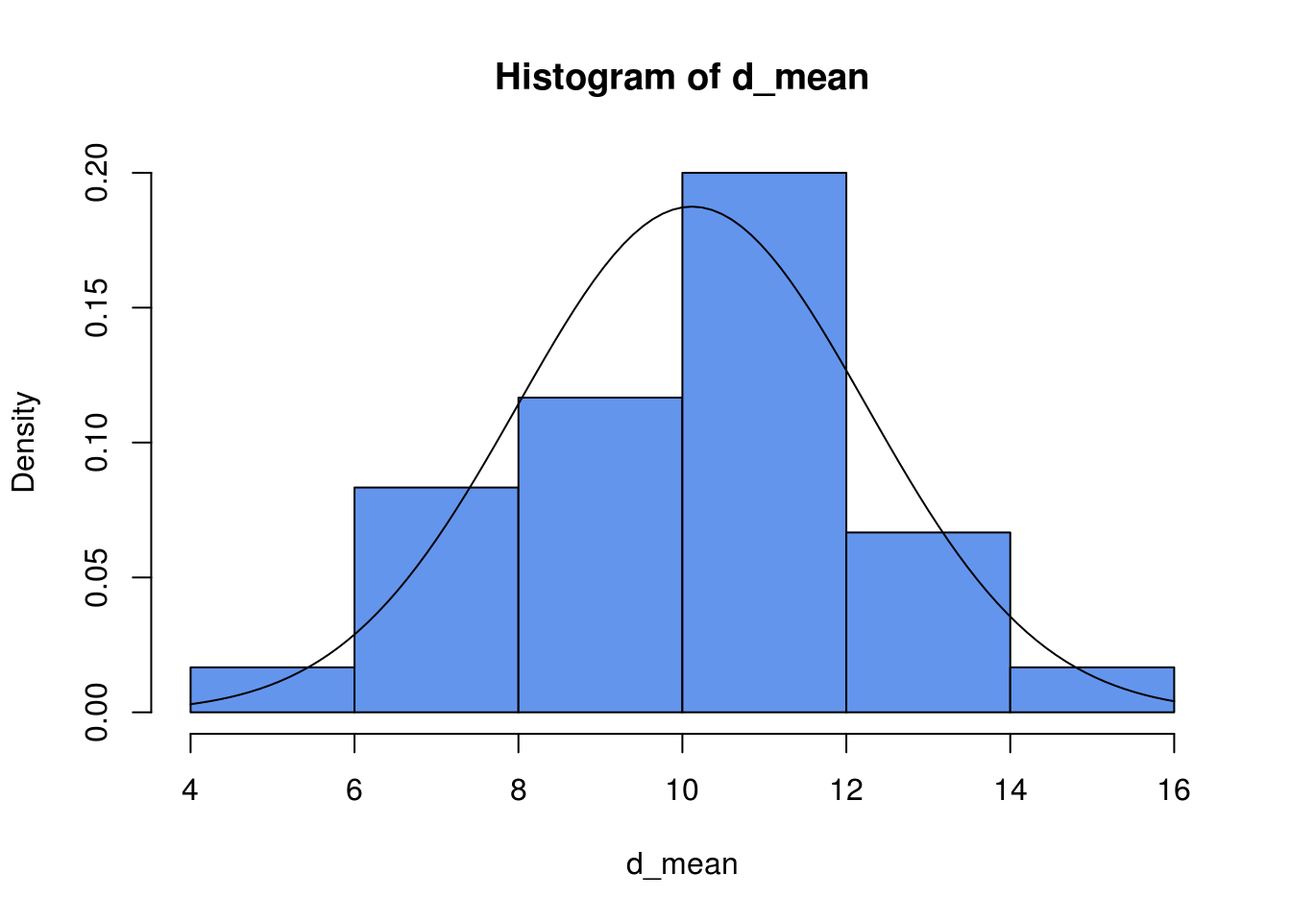
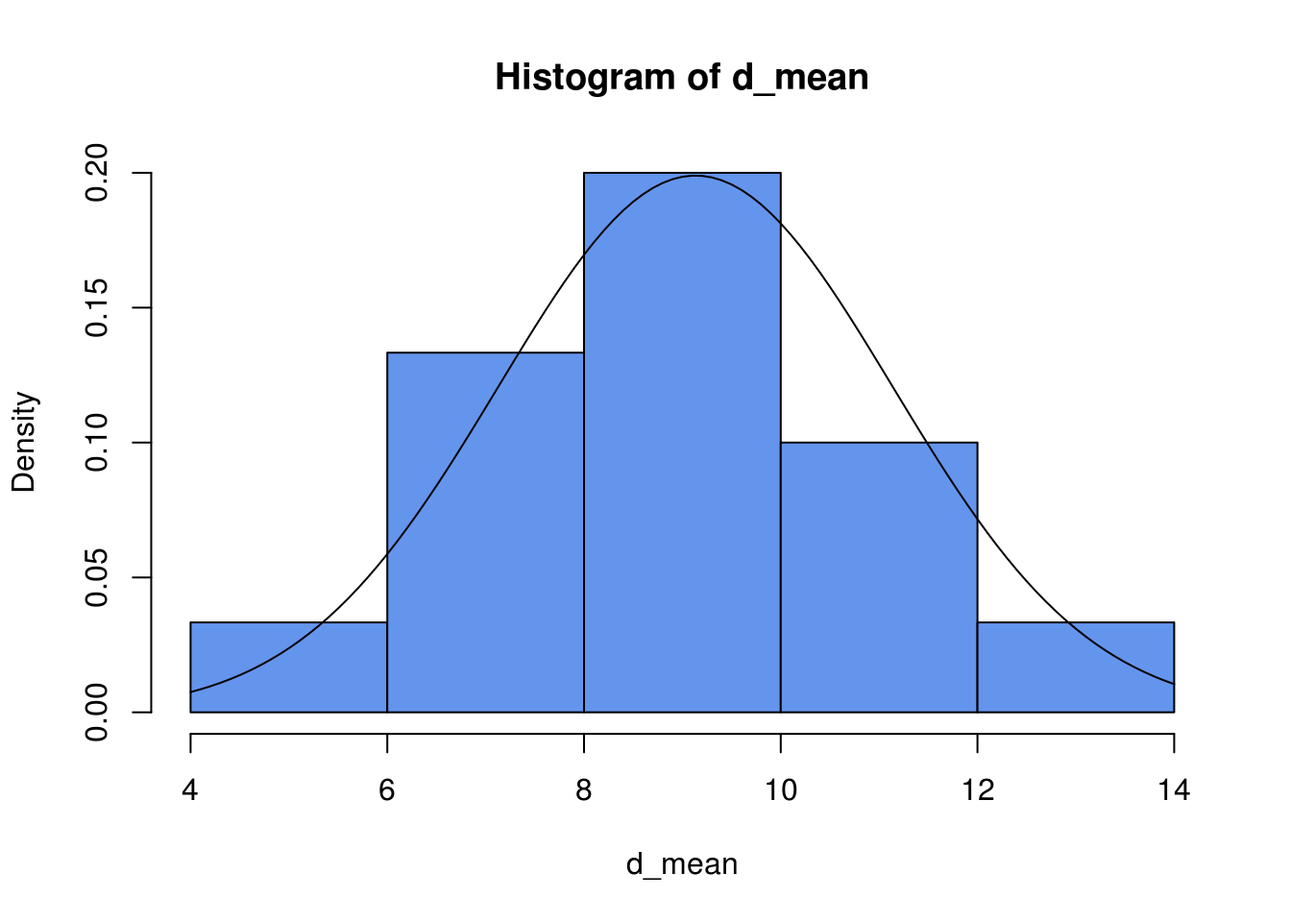
Go!

diff --git a/interval.html b/interval.html
@@ -279,16 +279,16 @@ $(document).ready(function () {
 <p>Por ejemplo, un fabricante desea saber si la longitud media de los lápices que produce es diferente de la longitud objetivo. El fabricante toma una muestra aleatoria de lápices y determina que la longitud media de la muestra es 52 milímetros y el intervalo de confianza de 95% es (50,54). Por lo tanto, usted puede estar 95% seguro de que la longitud media de todos los lápices se encuentra entre 50 y 54 milímetros.</p>
 <p>El intervalo de confianza se determina calculando una estimación de punto y luego determinando su margen de error.</p>
 <p><strong>Estimación de punto</strong></p>
-<p>Este valor individual estima un parámetro de la población usando los datos de la muestra. Por ejemplo, la estimación puntual mas usual es con base en la media muestral, es decir <span class="math inline">\(\bar{X}\)</span>.</p>
+<p>Este valor individual estima un parámetro de la población usando los datos de la muestra. Por ejemplo, la estimación puntual más usual es con base en la media muestral, es decir <span class="math inline">\(\bar{X}\)</span>.</p>
 <p><strong>Margen de error</strong></p>
-<p>Cuando usted utiliza estadísticos para estimar un valor, es importante recordar que, sin importar lo bien que esté diseñado su estudio, su estimación está sujeta a error de muestreo aleatorio. El margen de error cuantifica este error e indica la precisión de la estimación.</p>
+<p>Cuando usted utiliza estadísticos para estimar un valor, es importante recordar que, sin importar lo bien que esté diseñado su estudio, su estimación está sujeta a error de muestreo aleatorio. El margen de error cuantificar este error e indica la precisión de la estimación.</p>
 <p>Usted probablemente ya entiende el margen de error, porque está relacionado con los resultados de las encuestas. Por ejemplo, una encuesta política podría indicar que el nivel de popularidad de un candidato es de 55% con un margen de error de 5%. Esto significa que el nivel de popularidad real es +/- 5% y, por lo tanto, se ubica entre 50% y 60%.</p>
 <p>Para un intervalo de confianza bilateral, el margen de error es la distancia desde el estadístico estimado hasta cada el valor del intervalo de confianza. Cuando un intervalo de confianza es simétrico, el margen de error es la mitad del ancho del intervalo de confianza. Por ejemplo, la longitud media estimada de un árbol de levas es 600 mm y el intervalo de confianza oscila entre 599 y 601. El margen de error es 1.</p>
 <p>Mientras mayor sea el margen de error, más ancho será el intervalo y menos seguro podrá estar usted del valor de la estimación de punto.</p>
 <p>Finalmente el intervalo de confianza tiene la siguiente estructura:</p>
 <p><strong>Valor puntual <span class="math inline">\(\pm\)</span> Valor crítico x error estándar</strong></p>
-<p>Si consideramos el intervalo para la media poblacional, entonces el intervalo construido tendrá una confianza especifíca de la estimación correcta del valor del parámetro poblacional <span class="math inline">\(\mu\)</span>. En otras palabras, existe una confianza especificada de que <span class="math inline">\(\mu\)</span> se encuentre en algún lugar en el rango de números definidos dentro del intervalo.</p>
-<p>En general, el <strong>nivel de confianza</strong> se simboliza con <span class="math inline">\((1 - \alpha).100 \%\)</span>, donde <span class="math inline">\(\alpha\)</span> es la proporción de las colas de la distribución que estan fuera del intervalo de confianza. La proporción de la cola superior e inferior de la distribución es <span class="math inline">\(\alpha/2\)</span></p>
+<p>Si consideramos el intervalo para la media poblacional, entonces el intervalo construido tendrá una confianza específica de la estimación correcta del valor del parámetro poblacional <span class="math inline">\(\mu\)</span>. En otras palabras, existe una confianza especificada de que <span class="math inline">\(\mu\)</span> se encuentre en algún lugar en el rango de números definidos dentro del intervalo.</p>
+<p>En general, el <strong>nivel de confianza</strong> se simboliza con <span class="math inline">\((1 - \alpha).100 \%\)</span>, donde <span class="math inline">\(\alpha\)</span> es la proporción de las colas de la distribución que están fuera del intervalo de confianza. La proporción de la cola superior e inferior de la distribución es <span class="math inline">\(\alpha/2\)</span></p>
 <div id="intervalos-de-confianza-mas-precisos" class="section level3">
 <h3>Intervalos de confianza más precisos</h3>
 <p>Si el intervalo de confianza es demasiado ancho, usted no puede estar muy seguro del valor real de un parámetro, como por ejemplo la media. Sin embargo, puede utilizar varias estrategias para reducir el ancho de un intervalo de confianza y hacer que la estimación sea más precisa. Las siguientes características afectan el ancho del intervalo de confianza.</p>
@@ -320,7 +320,7 @@ $(document).ready(function () {
 <p>Estandarizando, donde <span class="math display">\[Z = \dfrac{\bar{X}-\mu}{\dfrac{\sigma}{\sqrt{n}}}\]</span></p>
 <p>tenemos:</p>
 <p><span class="math display">\[Z \sim Normal(0,1)\]</span></p>
-<p>En esta distribución normal de medias se puede calcular el intervalo de confianza donde se encontrará la media poblacional si solo se conoce una media muestral <span class="math inline">\(\bar{X}\)</span>, con un nivel de confianza determinado. Habitualmente se manejan valores de confianza del 95 % y del 99 %. A estos valores de confianza se les nota por <span class="math inline">\(1-\alpha\)</span> (debido a que <span class="math inline">\(\alpha\)</span> es la probabilidad de que la media muestral no este en el intervalo. Tener presente:</p>
+<p>En esta distribución normal de medias se puede calcular el intervalo de confianza donde se encontrará la media poblacional si solo se conoce una media muestral <span class="math inline">\(\bar{X}\)</span>, con un nivel de confianza determinado. Habitualmente se manejan valores de confianza del 95 % y del 99 %. A estos valores de confianza se les nota por <span class="math inline">\(1-\alpha\)</span> (debido a que <span class="math inline">\(\alpha\)</span> es la probabilidad de que la media muestral no esté en el intervalo. Tener presente:</p>
 <ol style="list-style-type: decimal">
 <li><p><em><span class="math inline">\((1-\alpha)*100 \%\)</span></em> es el nivel de confianza o confiabilidad.</p></li>
 <li><p><em><span class="math inline">\(\alpha\)</span></em> es el nivel de significancia.</p></li>
@@ -333,7 +333,7 @@ $(document).ready(function () {
 <blockquote>
 <p>¿Cómo encontrar el valor crítico <span class="math inline">\(Z_{\alpha/2}\)</span>?</p>
 </blockquote>
-<p>Supongamos un nivel de confianza del 95 %, por tanto <span class="math inline">\(\alpha=0.5\)</span>, entonces ¿Cuanto es <span class="math inline">\(Z_{\alpha/2}\)</span>?, para responder esto se pueden usar tablas estadisticas de la distribución nnormal estándar, pero esto no es muy atractivo en esta época. Podemos usar <code>RStudio</code>, veamos</p>
+<p>Supongamos un nivel de confianza del 95 %, por tanto <span class="math inline">\(\alpha=0.5\)</span>, entonces ¿Cuanto es <span class="math inline">\(Z_{\alpha/2}\)</span>?, para responder esto se pueden usar tablas estadísticas de la distribución normal estándar, pero esto no es muy atractivo en esta época. Podemos usar <code>RStudio</code>, veamos</p>
 <p>Si, <span class="math inline">\(\alpha=0.5\)</span>, entonces <span class="math inline">\(\alpha/2=0.025\)</span>, esto quiere decir que:</p>
 <p><span class="math display">\[P(Z&lt; z_{\alpha/2})=0.025\]</span> Para saber el valor del percentil <span class="math inline">\(z_{\alpha/2}\)</span> usamos la función <code>qnorm()</code>, como sigue para un 95 % de confianza</p>
 <pre class="r"><code>qnorm(0.025,0,1)</code></pre>
@@ -379,7 +379,7 @@ $(document).ready(function () {
 </div>
 <div id="intervalo-para-mu-con-sigma2-conocida" class="section level3">
 <h3>Intervalo para <span class="math inline">\(\mu\)</span> con <span class="math inline">\(\sigma^2\)</span> conocida</h3>
-<p>Si conocemos la desviación estándar poblacional el intervalo de confianza para <span class="math inline">\(\mu\)</span> esta definido de la siguiente manera:</p>
+<p>Si conocemos la desviación estándar poblacional el intervalo de confianza para <span class="math inline">\(\mu\)</span> está definido de la siguiente manera:</p>
 <p><span class="math display">\[\bar{X} \pm Z_{\alpha/2}\dfrac{\sigma}{\sqrt{n}}\]</span></p>
 <p>Donde,</p>
 <p><strong>Límite Inferior</strong>: <span class="math inline">\(\bar{X} - Z_{\alpha/2}\dfrac{\sigma}{\sqrt{n}}\)</span></p>
@@ -417,7 +417,7 @@ mean(estatura)</code></pre>
 <p><strong>Límite Superior</strong>: <span class="math inline">\(\bar{X} + Z_{\alpha/2}\dfrac{\sigma}{\sqrt{n}}=167.1 + 1.960*\dfrac{9000}{\sqrt{50}}=167.83\)</span></p>
 <p>Por lo tanto el intervalo de confianza del 95 % esta dado por</p>
 <p><span class="math display">\[\Big(166.36, 167.83 \Big)cm \]</span></p>
-<p>Conclusión: Podemos afirmar con una confiabilidad del 95 % que el promedio de la estatura en los estudiantes esta dentro del intervalo de confianza. Es decir entre <span class="math inline">\(166.36\)</span> y <span class="math inline">\(167.83\)</span>.</p>
+<p>Conclusión: Podemos afirmar con una confiabilidad del 95 % que el promedio de la estatura en los estudiantes está dentro del intervalo de confianza. Es decir entre <span class="math inline">\(166.36\)</span> y <span class="math inline">\(167.83\)</span>.</p>
 <ol start="2" style="list-style-type: decimal">
 <li>Una prestigiosa cadena de restaurantes está pensando en abrir una nueva franquicia. Para tomar la decisión se basan en las ventas promedio mensuales de 12 restaurantes activos en cierta ciudad que son de su propiedad. Ellos piensan que si dichas ventas en promedio son mayores a <span class="math inline">\(30,000\)</span> al mes, entonces la decisión será viable. Se conoce que la desviación estándar poblacional es <span class="math inline">\(\sigma=\$9000\)</span>. Los datos son los siguientes:</li>
 </ol>
@@ -445,8 +445,8 @@ mean(ventas)</code></pre>
 <p><strong>Límite Superior</strong>: <span class="math inline">\(\bar{X} + Z_{\alpha/2}\dfrac{\sigma}{\sqrt{n}}=23126.67 + 2.575*\dfrac{9000}{\sqrt{12}}=29816.71\)</span></p>
 <p>Por lo tanto el intervalo de confianza del 99 % esta dado por</p>
 <p><span class="math display">\[\Big(16436.62, 29816.71 \Big)\$ \]</span></p>
-<p>Conclusión: Podemos afirmar con una confiabilidad del 99 % que el promedio de ventas mensuales esta dentro del intervalo de confianza. Es decir entre <span class="math inline">\(\$16436.62\)</span> y <span class="math inline">\(\$29816.71\)</span>.</p>
-<p><strong>También la apertura de un nuevo restaurante NO puede ser viable, dado a que la meta de $ 30000 mil propuesta por el dueño del restaurante NO esta dentro del intervalo</strong>.</p>
+<p>Conclusión: Podemos afirmar con una confiabilidad del 99 % que el promedio de ventas mensuales está dentro del intervalo de confianza. Es decir entre <span class="math inline">\(\$16436.62\)</span> y <span class="math inline">\(\$29816.71\)</span>.</p>
+<p><strong>También la apertura de un nuevo restaurante NO puede ser viable, dado a que la meta de $ 30000 mil propuesta por el dueño del restaurante NO está dentro del intervalo</strong>.</p>
 </div>
 <div id="intervalo-para-mu-con-sigma2-desconocida" class="section level3">
 <h3>Intervalo para <span class="math inline">\(\mu\)</span> con <span class="math inline">\(\sigma^2\)</span> desconocida</h3>
@@ -456,11 +456,11 @@ mean(ventas)</code></pre>
 <p><strong>Límite Superior</strong>: <span class="math inline">\(\bar{X} + t_{n-1,\alpha/2}\dfrac{S}{\sqrt{n}}\)</span></p>
 <p>Por tanto, el intervalo para la media <span class="math inline">\(\mu\)</span> es</p>
 <p><span class="math display">\[\Big(\bar{X} - t_{n-1,\alpha/2}\dfrac{S}{\sqrt{n}} , \bar{X} + t_{n-1,\alpha/2}\dfrac{S}{\sqrt{n}}\Big)\]</span></p>
-<p>Donde <span class="math inline">\(n-1\)</span>son los grados de libertad para estimar <span class="math inline">\(\mu\)</span>. Tambén <span class="math inline">\(t_{n-1,\alpha/2}\)</span> es la distribución t-student con <span class="math inline">\(n-1\)</span> grados de libertad. En <code>RStudio</code> se puede usar el comando <code>qt(p,n-1)</code> para encontrar el valor crítico de la distribución.</p>
+<p>Donde <span class="math inline">\(n-1\)</span>son los grados de libertad para estimar <span class="math inline">\(\mu\)</span>. También <span class="math inline">\(t_{n-1,\alpha/2}\)</span> es la distribución t-student con <span class="math inline">\(n-1\)</span> grados de libertad. En <code>RStudio</code> se puede usar el comando <code>qt(p,n-1)</code> para encontrar el valor crítico de la distribución.</p>
 <blockquote>
 <p>Ejemplos</p>
 </blockquote>
-<p>Supongamos que en el ejemplo de la cadena de restaurantes, desconocemos la desviació poblacional <span class="math inline">\(\sigma\)</span>, por lo tanto tenemos que calcular la desviación muestral <span class="math inline">\(S\)</span>. Responder las preguntas a) y b) en este nuevo escenario.</p>
+<p>Supongamos que en el ejemplo de la cadena de restaurantes, desconocemos la desviación poblacional <span class="math inline">\(\sigma\)</span>, por lo tanto tenemos que calcular la desviación muestral <span class="math inline">\(S\)</span>. Responder las preguntas a) y b) en este nuevo escenario.</p>
 <p>Tenemos que calcular la desviación estándar de los datos</p>
 <pre class="r"><code>ventas &lt;- c(28959, 33000, 29383, 20203, 15145, 31767, 27342, 12476, 24720, 25308,  1933, 27284)
 mean(ventas)</code></pre>
@@ -474,17 +474,17 @@ mean(ventas)</code></pre>
 <p><span class="math inline">\(n=12\)</span></p>
 <p><span class="math inline">\(\bar{X}=\$23126.67\)</span></p>
 <p><span class="math inline">\(S=9157.75\)</span></p>
-<p>Necesitamos el valor de la distribución t-studen en <span class="math inline">\(t_{n-1,\alpha/2}\)</span></p>
+<p>Necesitamos el valor de la distribución t-student en <span class="math inline">\(t_{n-1,\alpha/2}\)</span></p>
 <pre class="r"><code>qt(0.005,11)</code></pre>
 <pre><code>## [1] -3.105807</code></pre>
 <p>Es decir <span class="math inline">\(t_{11,0.005}=3.1058\)</span>, tomando el valor positivo.</p>
 <p>Luego:</p>
 <p><strong>Límite Inferior</strong>: <span class="math inline">\(\bar{X} - t_{n-1,\alpha/2}\dfrac{S}{\sqrt{n}}=23126.67 - 3.1058*\dfrac{9157.75}{\sqrt{12}}=14916.13\)</span></p>
 <p><strong>Límite Superior</strong>: <span class="math inline">\(\bar{X} + t_{n-1,\alpha/2}\dfrac{S}{\sqrt{n}}=23126.67 + 3.1058*\dfrac{9157.75}{\sqrt{12}}=31337.20\)</span></p>
-<p>Por lo anto el intervalo de confianza esta dado por</p>
+<p>Por lo tanto el intervalo de confianza está dado por</p>
 <p><span class="math display">\[\Big(14916.13,31337.20\Big)\$ \]</span></p>
-<p>Conclusión: Podemos afirmar con una confiabilidad del 99 % que el promedio de ventas mensuales esta dentro del intervalo de confianza. Es decir entre <span class="math inline">\(\$14916.13\)</span> y <span class="math inline">\(\$31337.20\)</span>.</p>
-<p><strong>También la apertura de un nuevo restaurante puede ser viable, dado a que la meta de $ 30000 mil propuesta por el dueño del restaurante esta dentro del intervalo</strong>.</p>
+<p>Conclusión: Podemos afirmar con una confiabilidad del 99 % que el promedio de ventas mensuales está dentro del intervalo de confianza. Es decir entre <span class="math inline">\(\$14916.13\)</span> y <span class="math inline">\(\$31337.20\)</span>.</p>
+<p><strong>También la apertura de un nuevo restaurante puede ser viable, dado a que la meta de $ 30000 mil propuesta por el dueño del restaurante está dentro del intervalo</strong>.</p>
 </div>
 </div>
 <div id="intervalo-de-confianza-para-proporciones" class="section level2">
@@ -499,8 +499,8 @@ mean(ventas)</code></pre>
 <p>Ejemplos</p>
 </blockquote>
 <ol style="list-style-type: decimal">
-<li><p>Volvamos al ejemplo de los estudiantes a los que les gusta la comida de la cafeteria colegial, suponga que fueron preguntados 300 estudiantes del Colegio y de ellos 180 contestaron que si les gusta la comida. Construir intervalos de confianza del 99 %, 95 % y 90 % para estimar la proporción de estudiantes a los que les gusta la comida de la cafeteria.</p></li>
-<li><p>De una muestra de 180 personas que son fumadores frecuentes se econtró que el 67 % de ellos presentan problemas respiratorios. Estimar la proporción poblacional mediante intervalos de confianza de personas que son fumadoras y NO presentan dificultad al respirar. Use una confiabilidad del 95 % y 90 %.</p></li>
+<li><p>Volvamos al ejemplo de los estudiantes a los que les gusta la comida de la cafetería colegial, suponga que fueron preguntados 300 estudiantes del Colegio y de ellos 180 contestaron que si les gusta la comida. Construir intervalos de confianza del 99 %, 95 % y 90 % para estimar la proporción de estudiantes a los que les gusta la comida de la cafetería.</p></li>
+<li><p>De una muestra de 180 personas que son fumadores frecuentes se encontró que el 67 % de ellos presentan problemas respiratorios. Estimar la proporción poblacional mediante intervalos de confianza de personas que son fumadoras y NO presentan dificultad al respirar. Use una confiabilidad del 95 % y 90 %.</p></li>
 </ol>
 </div>
 <div id="ejercicios-de-repaso" class="section level2">
@@ -514,14 +514,14 @@ mean(ventas)</code></pre>
 <li><p><span class="math inline">\(P(3 \leq X \leq 6)\)</span></p></li>
 </ol>
 <ol start="2" style="list-style-type: decimal">
-<li>Se tomo una muestra <span class="math inline">\(n=10\)</span> de cada una de las poblaciones Normales. Sea <span class="math inline">\(X \sim Normal(5,7)\)</span>, <span class="math inline">\(Y \sim Normal(2,10)\)</span> y <span class="math inline">\(W \sim Normal(10,12)\)</span></li>
+<li>Se tomó una muestra <span class="math inline">\(n=10\)</span> de cada una de las poblaciones Normales. Sea <span class="math inline">\(X \sim Normal(5,7)\)</span>, <span class="math inline">\(Y \sim Normal(2,10)\)</span> y <span class="math inline">\(W \sim Normal(10,12)\)</span></li>
 </ol>
 <ol style="list-style-type: lower-alpha">
 <li>Encuentre la distribución de la media muestral de <span class="math inline">\(X\)</span>, <span class="math inline">\(Y\)</span> y <span class="math inline">\(W\)</span>, es decir</li>
 </ol>
 <p><span class="math display">\[\bar{X} \sim \]</span> <span class="math display">\[\bar{Y} \sim\]</span> <span class="math display">\[\bar{W} \sim\]</span></p>
 <ol start="2" style="list-style-type: lower-alpha">
-<li>Mediante estandarizacoón encuentre <span class="math inline">\(P(\bar{X} &gt; 3)\)</span>, <span class="math inline">\(P(\bar{Y} &lt; 2)\)</span> y <span class="math inline">\(P(3 \leq \bar{W} \leq 6)\)</span></li>
+<li>Mediante estandarización encuentre <span class="math inline">\(P(\bar{X} &gt; 3)\)</span>, <span class="math inline">\(P(\bar{Y} &lt; 2)\)</span> y <span class="math inline">\(P(3 \leq \bar{W} \leq 6)\)</span></li>
 </ol>
 <ol start="3" style="list-style-type: decimal">
 <li><p>Una muestra de tamaño 49 tiene un promedio muestral de 35 y una desviación estándar muestral de 14. Construya un intervalo de confianza del 98 % de confiabilidad para la media de la población usando esta información. Interpreta su significado.</p></li>
@@ -589,21 +589,10 @@ mean(ventas)</code></pre>
 <li><p><span class="math inline">\(\hat{p}=\dfrac{42}{900}=0.0466\)</span></p></li>
 <li><p><span class="math inline">\((0.0375,0.0556)\)</span> at 80 %</p></li>
 </ol>
-<hr />
-<hr />
-<hr />
-<hr />
-<hr />
-<hr />
-<hr />
-<hr />
-<hr />
-<hr />
-<hr />
-<hr />
-<hr />
-<hr />
-<hr />
+<div class="figure">
+<img src="blanco.png" />
+
+</div>
 </div>
 </div>
 

diff --git a/d_muestral.html b/d_muestral.html
@@ -209,7 +209,7 @@ $(document).ready(function () {
 <div id="TOC">
 <ul>
 <li><a href="#distribuciones-muestrales">Distribuciones Muestrales</a><ul>
-<li><a href="#notacion">Notación</a></li>
+<li><a href="#distribucion-muestral-del-promedio-barx">Distribución muestral del promedio <span class="math inline">\(\bar{X}\)</span></a></li>
 <li><a href="#distribucion-de-la-media-muestral-cuando-la-poblacion-es-normal">Distribución de la media muestral cuando la población es normal</a></li>
 <li><a href="#el-teorema-del-limite-central">El Teorema del Límite Central</a></li>
 <li><a href="#aplicaciones">Aplicaciones:</a></li>
@@ -221,10 +221,13 @@ $(document).ready(function () {
 <div id="distribuciones-muestrales" class="section level2">
 <h2>Distribuciones Muestrales</h2>
 <div id="uno-de-los-objetivos-de-la-estadistica-es-saber-acerca-del-comportamiento-de-parametros-poblacionales-tales-como-la-media-mu-la-varianza-sigma2-o-la-proporcion-p.-se-extrae-una-muestra-aleatoria-de-la-poblacion-y-se-calcula-el-valor-de-un-estadistico-correspondiente-por-ejemplo-la-media-muestral-barx-la-varianza-muestral-s2-o-la-proporcion-muestral-hatp.-el-valor-del-estadistico-es-aleatorio-porque-depende-de-los-elementos-elegidos-en-la-muestra-seleccionada-y-por-lo-tanto-el-estadistico-tiene-una-distribucion-de-probabilidad-la-cual-es-llamada-la-distribucion-muestral-del-estadistico." class="section level4">
-<h4>Uno de los objetivos de la estadística es saber acerca del comportamiento de parámetros poblacionales tales como: la media <span class="math inline">\(\mu\)</span>, la varianza <span class="math inline">\(\sigma^2\)</span> o la proporción <span class="math inline">\(p\)</span>. Se extrae una muestra aleatoria de la población y se calcula el valor de un estadístico correspondiente, por ejemplo, la media muestral <span class="math inline">\(\bar{X}\)</span>, la varianza muestral <span class="math inline">\(S^2\)</span> o la proporción muestral <span class="math inline">\(\hat{p}\)</span>. El valor del estadístico es aleatorio porque depende de los elementos elegidos en la muestra seleccionada y, por lo tanto, el estadístico tiene una distribución de probabilidad la cual es llamada la <strong>Distribución Muestral del Estadístico</strong>.</h4>
+<h4>Uno de los objetivos de la estadística es saber acerca del comportamiento de parámetros poblacionales tales como: la media <span class="math inline">\(\mu\)</span>, la varianza <span class="math inline">\(\sigma^2\)</span> o la proporción <span class="math inline">\(p\)</span>. Se extrae una muestra aleatoria de la población y se calcula el valor de un estadístico correspondiente, por ejemplo, la media muestral <span class="math inline">\(\bar{X}\)</span>, la varianza muestral <span class="math inline">\(S^2\)</span> o la proporción muestral <span class="math inline">\(\hat{p}\)</span>. El valor del estadístico es aleatorio porque depende de los elementos elegidos en la muestra seleccionada y, por lo tanto, el estadístico tiene una distribución de probabilidad la cual es llamada la distribución muestral del Estadístico.</h4>
 </div>
-<div id="notacion" class="section level3">
-<h3>Notación</h3>
+<div id="distribucion-muestral-del-promedio-barx" class="section level3">
+<h3>Distribución muestral del promedio <span class="math inline">\(\bar{X}\)</span></h3>
+<div id="notacion" class="section level4">
+<h4>Notación</h4>
+</div>
 <div id="parametros" class="section level4">
 <h4><strong>Parametros</strong>:</h4>
 </div>
@@ -331,16 +334,16 @@ for (i in 1:30){
   d_mean[i] &lt;- mean(sample(N,size = 4,replace = TRUE))
 }
 print(d_mean)</code></pre>
-<pre><code>##  [1]  7.50  8.75  6.75 13.50  8.00  9.00 11.50  9.75 11.50 10.75  6.25
-## [12] 11.25 10.75 10.25  8.75 10.25 12.50 10.75 11.50  8.00  8.75 11.75
-## [23] 12.25  8.75 10.25 12.25 10.00 14.75 11.75  5.75</code></pre>
+<pre><code>##  [1] 11.00 12.00  9.75  7.75  7.00  5.75 13.25  8.75 10.00  8.75  8.75
+## [12]  9.50 10.00 12.25  8.00  9.75  9.75  9.50  6.75  4.50 11.25 10.75
+## [23] 10.75  9.00  6.75  8.00  9.75  7.75  6.50 10.75</code></pre>
 </div>
 <div id="calculamos-las-medias-de-todas-esas-muestras-y-tratamos-de-ver-graficamente-mediante-un-histograma-al-menos-si-hay-acercamiento-a-normalidad." class="section level4">
 <h4>3) Calculamos las medias de todas esas muestras y tratamos de ver gráficamente mediante un histograma al menos si hay acercamiento a Normalidad.</h4>
 <pre class="r"><code>mean(d_mean)</code></pre>
-<pre><code>## [1] 10.11667</code></pre>
+<pre><code>## [1] 9.133333</code></pre>
 <pre class="r"><code>sd(d_mean)</code></pre>
-<pre><code>## [1] 2.12815</code></pre>
+<pre><code>## [1] 2.005094</code></pre>
 <pre class="r"><code>hist(d_mean,col = &quot;cornflowerblue&quot;,freq = F,ylim = c(0,0.2))
 curve(dnorm(x,mean(d_mean),sd(d_mean)),add=TRUE)</code></pre>
 <p><img src="d_muestral_files/figure-html/unnamed-chunk-3-1.png" width="672" /></p>
@@ -351,14 +354,14 @@ curve(dnorm(x,mean(d_mean),sd(d_mean)),add=TRUE)</code></pre>
 <div id="notar-que-la-media-de-las-medias-muestrales-es" class="section level4">
 <h4>1. Notar que la media de las medias muestrales es</h4>
 </div>
-<div id="mu_barx-10.12." class="section level4">
-<h4><span class="math inline">\(\mu_{\bar{X}}=\)</span> 10.12.</h4>
+<div id="mu_barx-9.13." class="section level4">
+<h4><span class="math inline">\(\mu_{\bar{X}}=\)</span> 9.13.</h4>
 </div>
 <div id="este-resultado-esta-bien-cerca-de-la-media-poblacional-pues-mu9.55" class="section level4">
 <h4>Este resultado está bien cerca de la media poblacional, pues <span class="math inline">\(\mu=9.55\)</span></h4>
 </div>
-<div id="la-desviacion-estandar-de-la-media-muestral-es-2.13-mientras-que" class="section level4">
-<h4>2. La desviación estándar de la media muestral es 2.13, mientras que</h4>
+<div id="la-desviacion-estandar-de-la-media-muestral-es-2.01-mientras-que" class="section level4">
+<h4>2. La desviación estándar de la media muestral es 2.01, mientras que</h4>
 </div>
 <div id="sigma_barxdfracsigmasqrtndfrac4.77sqrt42.4-." class="section level4">
 <h4><span class="math inline">\(\sigma_{\bar{X}}=\dfrac{\sigma}{\sqrt{n}}=\dfrac{4.77}{\sqrt{4}}=2.4\)</span> .</h4>
@@ -368,9 +371,6 @@ curve(dnorm(x,mean(d_mean),sd(d_mean)),add=TRUE)</code></pre>
 </div>
 <div id="el-histograma-esta-un-poco-alejado-de-la-idea-de-normalidad." class="section level4">
 <h4>El histograma está un poco alejado de la idea de Normalidad.</h4>
-</div>
-<div id="podemos-incrementar-el-tamano-de-las-muestras-se-puede-notar-una-mejor-aproximacion-a-la-normal." class="section level4">
-<h4>Podemos incrementar el tamaño de las muestras se puede notar una mejor aproximación a la Normal.</h4>
 </div>
 <div id="si-se-incrementa-la-cantidad-de-muestras-a-diez-mil-se-puede-notar-graficamente-una-mejor-aproximacion-a-la-distribucion-normal-mediante-la-idea-del-histograma." class="section level4">
 <h4>Si se incrementa la cantidad de muestras a diez mil, se puede notar gráficamente una mejor aproximación a la distribución Normal, mediante la idea del histograma.</h4>
@@ -384,14 +384,14 @@ curve(dnorm(x,mean(d_mean),sd(d_mean)),add=TRUE)</code></pre>
 <p><img src="d_muestral_files/figure-html/unnamed-chunk-4-1.png" width="672" /></p>
 <p>Ahora, con un mayor número de muestras tenemos que:</p>
 </div>
-<div id="mu_barx-9.52." class="section level4">
-<h4><span class="math inline">\(\mu_{\bar{X}}=\)</span> 9.52.</h4>
+<div id="mu_barx-9.54." class="section level4">
+<h4><span class="math inline">\(\mu_{\bar{X}}=\)</span> 9.54.</h4>
 </div>
 <div id="este-resultado-esta-bien-cerca-de-la-media-poblacional-pues-mu9.55-1" class="section level4">
 <h4>Este resultado está bien cerca de la media poblacional, pues <span class="math inline">\(\mu=9.55\)</span></h4>
 </div>
-<div id="la-desviacion-estandar-de-la-media-muestral-es-2.22-comparado-con-sigma_barx2.38" class="section level4">
-<h4>2. La desviación estándar de la media muestral es 2.22, comparado con <span class="math inline">\(\sigma_{\bar{X}}=2.38\)</span></h4>
+<div id="la-desviacion-estandar-de-la-media-muestral-es-2.26-comparado-con-sigma_barx2.38" class="section level4">
+<h4>2. La desviación estándar de la media muestral es 2.26, comparado con <span class="math inline">\(\sigma_{\bar{X}}=2.38\)</span></h4>
 </div>
 </div>
 <div id="aplicaciones" class="section level3">
@@ -422,7 +422,10 @@ curve(dnorm(x,mean(d_mean),sd(d_mean)),add=TRUE)</code></pre>
 </div>
 <div id="barx-sim-normalbig3frac0.2sqrt100big" class="section level4">
 <h4><span class="math display">\[\bar{X} \sim Normal\Big(3,\frac{0.2}{\sqrt{100}}\Big)\]</span></h4>
-<ol start="2" style="list-style-type: decimal">
+</div>
+<div id="caso-2-cuando-desconocemos-la-distribucion-de-la-poblacion-y-n-geq-30" class="section level4">
+<h4>Caso 2: Cuando desconocemos la distribución de la población y <span class="math inline">\(n \geq 30\)</span></h4>
+<ol style="list-style-type: decimal">
 <li><h4 id="se-extrae-un-muestra-de-tamano-n30-de-una-poblacion-que-tiene-una-distribucion-desconocida-con-media-mu-y-varianza-sigma2-pero-que-por-alguna-razon-conocemos-que-mu10y-que-sigma233.34.-con-la-informacion-anterior-estamos-interesados-en-contestar-las-siguientes-preguntas">Se extrae un muestra de tamaño <span class="math inline">\(n=30\)</span> de una población que tiene una distribución desconocida con media <span class="math inline">\(\mu\)</span> y varianza <span class="math inline">\(\sigma^2\)</span>, pero que por alguna razón conocemos que <span class="math inline">\(\mu=10\)</span>y que <span class="math inline">\(\sigma^2=33.34\)</span>. Con la información anterior estamos interesados en contestar las siguientes preguntas:</h4></li>
 </ol>
 <ol style="list-style-type: lower-alpha">
@@ -430,21 +433,66 @@ curve(dnorm(x,mean(d_mean),sd(d_mean)),add=TRUE)</code></pre>
 <li><h4 id="cual-es-la-probabilidad-de-obtener-un-promedio-muestral-mayor-a-12.5">¿Cuál es la probabilidad de obtener un promedio muestral mayor a 12.5?</h4></li>
 <li><h4 id="cual-es-la-probabilidad-de-encontrar-un-promedio-muestral-entre-8-y-15">¿Cuál es la probabilidad de encontrar un promedio muestral entre 8 y 15?</h4></li>
 </ol>
-</div>
-<div id="caso-2-cuando-desconocemos-la-distribucion-de-la-poblacion-y-n-geq-30" class="section level4">
-<h4>Caso 2: Cuando desconocemos la distribución de la población y <span class="math inline">\(n \geq 30\)</span></h4>
-<ol style="list-style-type: decimal">
+<ol start="2" style="list-style-type: decimal">
 <li><h4 id="supongamos-que-el-ingreso-familiar-promedio-en-los-estados-unidos-es-de-51344-con-una-desviacion-estandar-de-15377.-cual-es-la-probabilidad-de-que-una-muestra-aleatoria-de-124-hogares-tenga-un-ingreso-familiar-promedio-de-mas-de-54000">Supongamos que el ingreso familiar promedio en los Estados Unidos es de <span class="math inline">\(\$51,344\)</span>, con una desviación estándar de <span class="math inline">\(\$15,377\)</span>. ¿Cuál es la probabilidad de que una muestra aleatoria de <span class="math inline">\(124\)</span> hogares tenga un ingreso familiar promedio de más de $ 54,000?</h4></li>
 </ol>
 </div>
 </div>
 <div id="distribucion-de-la-proporcion-muestral" class="section level3">
 <h3>Distribución de la Proporción Muestral</h3>
-<div id="si-de-una-poblacion-distribuida-binomialmente-con-probabilidad-de-exito-p-se-extrae-una-muestra-aleatoria-de-tamano-n-entonces-se-puede-mostrar-que-la-media-de-x-numero-de-exitos-en-la-muestra-es-munp-y-que-su-varianza-es-sigma2np1-p.-en-consecuencia-la-proporcion-muestral-hatpdfracxn-tiene-media-p-y-varianza-dfracp1-pn.-entonces-por-el-teorema-del-limite-central-cuando-n-es-grande-se-tiene" class="section level4">
-<h4>Si de una población distribuida Binomialmente con probabilidad de éxito <span class="math inline">\(p\)</span>, se extrae una muestra aleatoria de tamaño <span class="math inline">\(n\)</span>, entonces se puede mostrar que la media de X: “número de éxitos en la muestra”, es <span class="math inline">\(\mu=np\)</span> y que su varianza es <span class="math inline">\(\sigma^2=np(1-p)\)</span>. En consecuencia la proporción muestral <span class="math inline">\(\hat{p}=\dfrac{X}{n}\)</span> tiene media <span class="math inline">\(p\)</span> y varianza <span class="math inline">\(\dfrac{p(1-p)}{n}\)</span>. Entonces: por el Teorema del Límite Central, cuando <span class="math inline">\(n\)</span> es grande se tiene:</h4>
+<div id="si-se-toman-numerosas-repeticiones-de-muestras-se-dice-que-la-distribucion-de-la-proporcion-muestral-hatp-se-aproxima-a-una-distribucion-normal.-alternativamente-esto-puede-suponerse-si-ambos-np-y-n1---p-son-mayores-o-iguales-a-10-es-decir-que-np-geq-10-y-n1---p-geq-10.-usando-este-criterio-podemos-estimar-la-proporcion-poblacional-p-a-traves-de-hatp-y-la-desviacion-estandar-de-p-por-sqrtdfracp1-pn-tambien-conocido-como-error-estandar." class="section level4">
+<h4>Si se toman numerosas repeticiones de muestras, se dice que la distribución de la proporción muestral <span class="math inline">\(\hat{p}\)</span> se aproxima a una distribución normal. Alternativamente, esto puede suponerse si AMBOS <span class="math inline">\(np\)</span> y <span class="math inline">\(n(1 - p)\)</span> son mayores o iguales a 10, es decir que <span class="math inline">\(np \geq 10\)</span> y <span class="math inline">\(n(1 - p) \geq 10\)</span>. Usando este criterio, podemos estimar la proporción poblacional <span class="math inline">\(p\)</span> a través de <span class="math inline">\(\hat{p}\)</span> y la desviación estándar de <span class="math inline">\(p\)</span> por <span class="math inline">\(\sqrt{\dfrac{p(1-p)}{n}}\)</span>, también conocido como error estándar.</h4>
 </div>
-<div id="zdfracx-npsqrtnp1-pdfrachatp-psqrtdfracp1-pn" class="section level4">
-<h4><span class="math display">\[Z=\dfrac{X-np}{\sqrt{np(1-p)}}=\dfrac{\hat{p}-p}{\sqrt{\dfrac{p(1-p)}{n}}}\]</span></h4>
+<div id="lo-anterior-funciona-de-forma-similar-si-estamos-hablando-de-las-probabilidades-sobre-el-numero-x-de-exitos-en-una-situacion-binomial-es-decir-que-estas-probabilidades-son-las-mismas-que-las-probabilidades-sobre-las-proporciones-correspondientes." class="section level4">
+<h4>Lo anterior funciona de forma similar si estamos hablando de las probabilidades sobre el número X de éxitos en una situación binomial, es decir que estas probabilidades son las mismas que las probabilidades sobre las proporciones correspondientes.</h4>
+</div>
+<div id="en-consecuencia-si-x-numero-de-exitos-en-la-muestra-cuando-se-cumple-que-np-geq-10-y-n1---p-geq-10-entonces-la-proporcion-muestral-hatpdfracxn-tiene-media-p-y-desviacion-estandar-sqrtdfracp1-pn." class="section level4">
+<h4>En consecuencia, si <span class="math inline">\(X\)</span>: “número de éxitos en la muestra”, cuando se cumple que <span class="math inline">\(np \geq 10\)</span> y <span class="math inline">\(n(1 - p) \geq 10\)</span>, entonces la proporción muestral <span class="math inline">\(\hat{p}=\dfrac{X}{n}\)</span> tiene media <span class="math inline">\(p\)</span> y desviación estándar <span class="math inline">\(\sqrt{\dfrac{p(1-p)}{n}}\)</span>.</h4>
+</div>
+<div id="por-lo-tanto" class="section level4">
+<h4>Por lo tanto,</h4>
+</div>
+<div id="zdfrachatp-psqrtdfracp1-pn" class="section level4">
+<h4><span class="math display">\[Z=\dfrac{\hat{p}-p}{\sqrt{\dfrac{p(1-p)}{n}}}\]</span></h4>
+</div>
+<div id="ejemplose-supone-que-el-40-de-los-estudiantes-universitarios-consumen-algun-tipo-de-droga-ilegal.-interesados-en-conocer-la-proporcion-de-estudiantes-de-cierta-universidad-que-han-usado-drogas-recreativas-en-los-ultimos-6-meses-se-tomo-una-muestra-de-200-estudiantes-de-los-cuales-el-32-dijo-si-a-haber-consumidos-algun-tipo-de-droga.-cual-es-la-probabilidad-de-que-la-proporcion-de-estudiantes-que-hayan-usado-drogas-en-los-ultimos-6-meses-sea-inferior-a-0.32-o-32" class="section level4">
+<h4>Ejemplo:Se supone que el 40 % de los estudiantes universitarios consumen algún tipo de droga ilegal. Interesados en conocer la proporción de estudiantes de cierta universidad que han usado drogas recreativas en los últimos 6 meses, se tomó una muestra de 200 estudiantes; de los cuales el 32 % dijo sí a haber consumidos algún tipo de droga. ¿Cuál es la probabilidad de que la proporción de estudiantes que hayan usado drogas en los últimos 6 meses sea inferior a 0.32 (o 32%)?</h4>
+</div>
+<div id="el-32-o-0.32-significa-que-64-estudiantes-contestaron-si-a-la-pregunta.-es-decir-que" class="section level4">
+<h4>El 32 % o <span class="math inline">\(0.32\)</span> significa que 64 estudiantes contestaron sí a la pregunta. Es decir que,</h4>
+</div>
+<div id="hatpdfrac642000.32." class="section level4">
+<h4><span class="math display">\[\hat{p}=\dfrac{64}{200}=0.32\]</span>.</h4>
+</div>
+<div id="verifiquemos-si-en-realidad-se-cumplen-las-condiciones-para-calcular-la-probabilidad-solicitada-mediante-la-distribucion-normal-estandar" class="section level4">
+<h4>Verifiquemos si en realidad se cumplen las condiciones para calcular la probabilidad solicitada mediante la distribución normal estándar</h4>
+</div>
+<div id="np2000.4080-geq-10-tambien" class="section level4">
+<h4><span class="math inline">\(np=200*0.40=80 \geq 10\)</span>, tambien</h4>
+</div>
+<div id="n1-p2001-0.40120-geq-10" class="section level4">
+<h4><span class="math inline">\(n(1-p)=200*(1-0.40)=120 \geq 10\)</span></h4>
+</div>
+<div id="entonces-1" class="section level4">
+<h4>Entonces,</h4>
+</div>
+<div id="sqrtdfracp1-pnsqrtdfrac0.401-0.402000.0346" class="section level4">
+<h4><span class="math inline">\(\sqrt{\dfrac{p(1-p)}{n}}=\sqrt{\dfrac{0.40(1-0.40)}{200}}=0.0346\)</span>,</h4>
+</div>
+<div id="asi" class="section level4">
+<h4>Así,</h4>
+</div>
+<div id="pz-0.32pbigz-dfrac0.32---0.400.0346big" class="section level4">
+<h4><span class="math display">\[P(Z &lt; 0.32)=P\Big(Z &lt; \dfrac{0.32 - 0.40}{0.0346}\Big)=\]</span></h4>
+</div>
+<div id="pz--2.31-0.0104." class="section level4">
+<h4><span class="math display">\[P(Z &lt; -2.31)= 0.0104.\]</span></h4>
+<pre class="r"><code>pnorm(-2.31)</code></pre>
+<pre><code>## [1] 0.01044408</code></pre>
+<div class="figure">
+<img src="blanco.png" />
+
+</div>
 </div>
 </div>
 </div>

diff --git a/tareas.html b/tareas.html
@@ -210,10 +210,10 @@ $(document).ready(function () {
 <div id="reglas-para-todas-las-tareas" class="section level3">
 <h3>Reglas para todas las tareas:</h3>
 <ol style="list-style-type: decimal">
-<li>La tarea debe ser entregada en físico al iniciar la clase y en el día estipulado.</li>
-<li>Se pueden ayudar mutuamente en el uso de las computadoras, pero dos trabajos exactamente iguales recibirán nota CERO.</li>
-<li>En su reporte final debe aparecer todo el código de R y los respectivos resultados. En los cálculos manuales debe mostrar su procedimiento detalladamente.</li>
-<li>Todas las gráficas deben tener títulos que incluyan el nombre de estudiante, de lo contrario se descontarán puntos.</li>
+<li><h4 id="la-tarea-debe-ser-entregada-en-fisico-al-iniciar-la-clase-y-en-el-dia-estipulado.">La tarea debe ser entregada en físico al iniciar la clase y en el día estipulado.</h4></li>
+<li><h4 id="se-pueden-ayudar-mutuamente-en-el-uso-de-las-computadoras-pero-dos-trabajos-exactamente-iguales-recibiran-nota-cero.">Se pueden ayudar mutuamente en el uso de las computadoras, pero dos trabajos exactamente iguales recibirán nota CERO.</h4></li>
+<li><h4 id="en-su-reporte-final-debe-aparecer-todo-el-codigo-de-r-y-los-respectivos-resultados.-en-los-calculos-manuales-debe-mostrar-su-procedimiento-detalladamente.">En su reporte final debe aparecer todo el código de R y los respectivos resultados. En los cálculos manuales debe mostrar su procedimiento detalladamente.</h4></li>
+<li><h4 id="todas-las-graficas-deben-tener-titulos-que-incluyan-el-nombre-de-estudiante-de-lo-contrario-se-descontaran-puntos.">Todas las gráficas deben tener títulos que incluyan el nombre de estudiante, de lo contrario se descontarán puntos.</h4></li>
 </ol>
 </div>
 <div id="tarea-1.-fecha-limite-viernes-24-08-solucion-tarea-1" class="section level3">
@@ -233,6 +233,12 @@ $(document).ready(function () {
 </div>
 <div id="tarea-6.-fecha-limite-miercol-17-10-solucion-tarea-6" class="section level3">
 <h3><a href="https://didier-murillo.netlify.com/t6">Tarea 6. Fecha límite: Miercol-17-10</a> – <a href="https://didier-murillo.netlify.com/st6">Solución Tarea 6</a></h3>
+</div>
+<div id="tarea-7.-fecha-limite-viernes-09-11" class="section level3">
+<h3><a href="https://didier-murillo.netlify.com/t7">Tarea 7. Fecha límite: Viernes-09-11</a></h3>
+</div>
+<div id="tarea-8.-fecha-limite-viernes-16-11" class="section level3">
+<h3><a href="https://didier-murillo.netlify.com/t8">Tarea 8. Fecha límite: Viernes-16-11</a></h3>
 <div class="figure">
 <img src="blanco.png" />
 

diff --git a/Teaching.html b/Teaching.html
@@ -214,8 +214,8 @@ $(document).ready(function () {
 <h3><a href="https://didier-murillo.netlify.com/datos">Datos</a></h3>
 </div>
 </div>
-<div id="examen-parcial-2-lunes-22-de-octubre." class="section level2">
-<h2>Examen parcial # 2: Lunes 22 de Octubre.</h2>
+<div id="examen-parcial-3-miercoles-21-de-noviembre." class="section level2">
+<h2>Examen parcial # 3: Miércoles 21 de Noviembre.</h2>
 <div id="tareas" class="section level3">
 <h3><a href="https://didier-murillo.netlify.com/tareas">Tareas</a></h3>
 </div>
